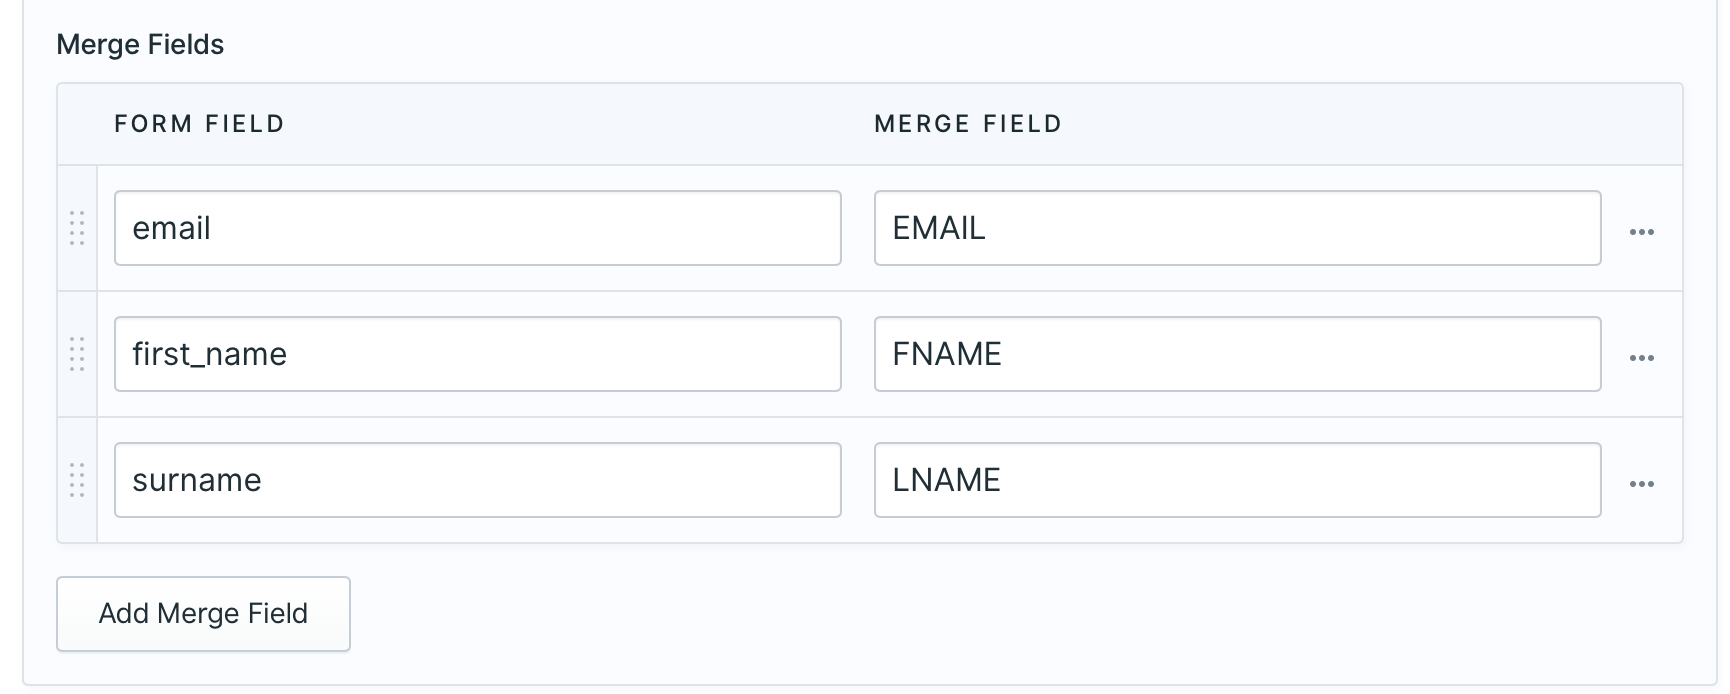
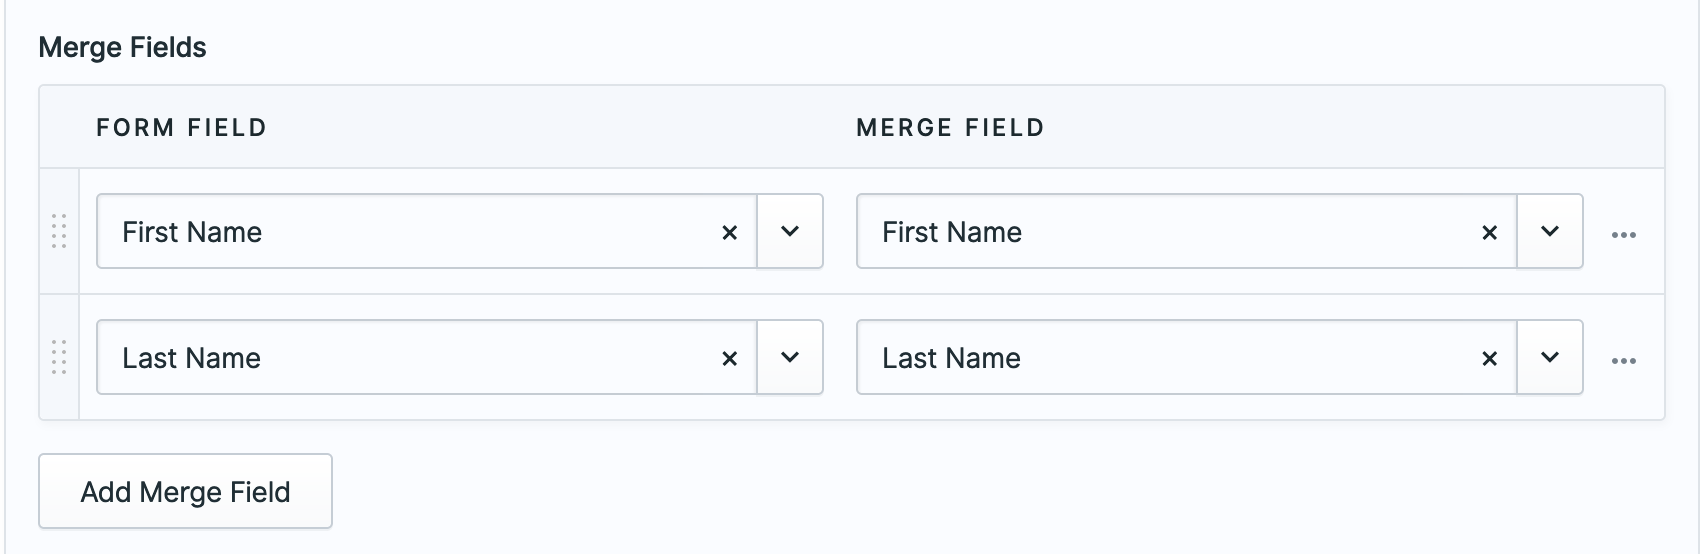
readme and changelog

diff --git a/README.md b/README.md
@@ -55,6 +55,21 @@ return [
         */
         'audience_id' => null,
 
+
+        /*
+        * Mailchimp Tag to assign to the contact.
+        *
+        * @see https://mailchimp.com/help/getting-started-tags/
+        */
+        'tag' => null,
+
+        /*
+        * Use this field in your user to indicate which Mailchimp Tag to use
+        *
+        * @see https://mailchimp.com/help/getting-started-tags/
+        */
+        'tag_field' => null,
+
         /*
         * This is NOT recommended and means that they WILL NOT get the opt in email.
         * NOTE: This may violate privacy laws and may get your banned from Mailchimp
@@ -78,7 +93,7 @@ return [
         'merge_fields' => [
             [
                 /*
-                * The Mailchimp tag
+                * The Mailchimp merge field
                 */
                 'tag'=> null,
 
@@ -89,11 +104,6 @@ return [
             ],
         ],
 
-        /*
-        * To have single opt in only, which I don't recommend, set this to `true`.
-        * See: https://mailchimp.com/help/single-opt-in-vs-double-opt-in/ for details
-        */
-        'disable_opt_in' => false,
     ],
 
     /*
@@ -102,10 +112,40 @@ return [
     'forms' => [
         [
             /*
+            * handle of the form to listen for
+            */
+            'form' => null,
+
+            /*
+            * Define the handle for the email field to be used. Defaults to 'email'.
+            */
+            'primary_email_field' => 'email',
+
+            /*
+            * if you'd like to add "interests" in a group, which field is collecting those ids? Defaults to 'interests'
+            */
+            'interests_field' => 'interests',
+
+            /*
             * A MailChimp audience id. Check the MailChimp docs if you don't know
             * how to get this value: https://mailchimp.com/help/find-audience-id/.
             */
             'audience_id' => null,
+
+            /*
+            * Mailchimp Tag to assign to the contact.
+            * NOTE: `tag_field` takes precendence over `tag`
+            *
+            * @see https://mailchimp.com/help/getting-started-tags/
+            */
+            'tag' => null,
+
+            /*
+            * Use this field in your user to indicate which Mailchimp Tag to use
+            *
+            * @see https://mailchimp.com/help/getting-started-tags/
+            */
+            'tag_field' => null,
 
             /*
             * This is NOT recommended and means that they WILL NOT get the opt in email.
@@ -130,16 +170,6 @@ return [
             'disable_opt_in' => false,
 
             /*
-            * handle of the form to listen for
-            */
-            'form' => null,
-
-            /*
-            * if you'd like to add "interests" in a group, which field is collecting those ids? Defaults to 'interests'
-            */
-            'interests_field' => 'interests',
-
-            /*
             * See https://mailchimp.com/help/manage-audience-signup-form-fields/ for details on
             * Mailchimp merge fields
             */
@@ -156,16 +186,6 @@ return [
                     'field_name' => null,
                 ],
             ],
-
-            /*
-            * Define the handle for the email field to be used. Defaults to 'email'.
-            */
-            'primary_email_field' => 'email',
-
-            /*
-            * if you'd like to apply a tag to each member when they submit a particular form
-            */
-            'tag' => 'Tag One',
         ],
     ],
 ];

diff --git a/CHANGELOG.md b/CHANGELOG.md
@@ -2,6 +2,11 @@
 
 All notable changes to `statamic-mailchimp` will be documented in this file.
 
+## 2.8 - 2022-04-06
+
+- Set the Mailchimp Tag from a form field
+- Convert form fields to select boxes
+
 ## 2.7 - 2022-03-28
 
 - Support Laravel 9 & Statamic 3.3
